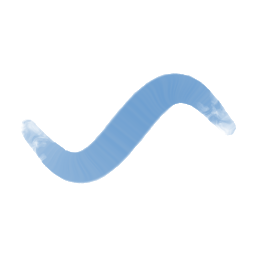
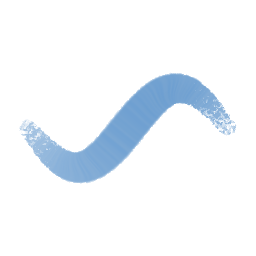
feat(painter): Pastel com o grão do dono e Chalk/Crayon a encher o dente (dono 10/11: P_dono SIM, Ch/Cr H10)
Pastel: Noise 120 px, params [0.55, 0.55, 0.3, 0.5, 0.5]. Chalk e Crayon: Height (mode 4) com softness 0,3,
tip_depth, fill 0,5 e grain_depth 1,0 sobre os papéis deles (80 e 48 px) — a rodada única de
docs/Painter/handoffs/material_2026-11-10_secos (a 0,3/0,6 de profundidade o Height não pinta). Presets
regerados só para os três; alarmes de largura e miniatura verdes.

Changed region(s): [[0.75, 0.3438, 0.9375, 0.5312], [0.0625, 0.4688, 0.2188, 0.6562], [0.2188, 0.5625, 0.2812, 0.5938]]

diff --git a/crates/ph2d-tool-painter/tests/it/familias/csp_secos.rs b/crates/ph2d-tool-painter/tests/it/familias/csp_secos.rs
@@ -9,12 +9,15 @@ use super::prelude::*;
 
 pub const WET: &[Receita] = &[];
 
-/// O papel áspero NOSSO dos secos (o «Rough textured» do CSP não foi copiado): `Noise` procedural preso à tela.
-const PAPEL_ASPERO: &str = r#"{"angle_deg": 0, "flow": false, "kind": "Noise", "lei": {"depth_jitter": 0.5, "depth_min": 0.0, "depth_pressure": true, "mode": 0}, "mapping": "Tiled", "offset": [0.0, 0.0], "params": [0.5, 0.5, 0.5, 0.5, 0.5, 0.5], "rake": false, "size": [48.0, 48.0], "stencil_angle_deg": 0, "stencil_offset": [0.0, 0.0], "stencil_size": [0.5, 0.5]}"#;
-/// O papel do Pastel (K1): `Noise` 32 px de 3 oitavas, contraste 0,4, lido pelo Height com maciez e ponta afundada.
-const PAPEL_DO_PASTEL: &str = r#"{"angle_deg": 0, "flow": false, "kind": "Noise", "lei": {"depth_jitter": 0.8, "depth_min": 0.0, "depth_pressure": true, "mode": 4, "softness": 0.3, "tip_depth": true, "fill": 0.5}, "mapping": "Tiled", "offset": [0.0, 0.0], "params": [0.4, 0.5, 0.3, 0.5, 0.5, 0.5], "rake": false, "size": [32.0, 32.0], "stencil_angle_deg": 0, "stencil_offset": [0.0, 0.0], "stencil_size": [0.5, 0.5]}"#;
-/// O papel de desenho do Chalk (mais grosso).
-const PAPEL_DE_DESENHO: &str = r#"{"angle_deg": 0, "flow": false, "kind": "Noise", "lei": {"depth_jitter": 0.3, "depth_min": 0.0, "depth_pressure": true, "mode": 0}, "mapping": "Tiled", "offset": [0.0, 0.0], "params": [0.5, 0.5, 0.5, 0.5, 0.5, 0.5], "rake": false, "size": [80.0, 80.0], "stencil_angle_deg": 0, "stencil_offset": [0.0, 0.0], "stencil_size": [0.5, 0.5]}"#;
+/// O papel áspero NOSSO do Crayon (o «Rough textured» do CSP não foi copiado): `Noise` 48 px preso à tela. Dono
+/// 10/11 (variante `Cr_H10`): enche o dente — lido pelo Height com maciez, ponta afundada e `fill` 0,5.
+const PAPEL_DO_CRAYON: &str = r#"{"angle_deg": 0, "flow": false, "kind": "Noise", "lei": {"depth_jitter": 0.5, "depth_min": 0.0, "depth_pressure": true, "mode": 4, "softness": 0.3, "tip_depth": true, "fill": 0.5}, "mapping": "Tiled", "offset": [0.0, 0.0], "params": [0.5, 0.5, 0.5, 0.5, 0.5, 0.5], "rake": false, "size": [48.0, 48.0], "stencil_angle_deg": 0, "stencil_offset": [0.0, 0.0], "stencil_size": [0.5, 0.5]}"#;
+/// O papel do Pastel — o grão do dono 10/11 (variante `P_dono`): `Noise` 120 px, contraste e brilho 0,55, detalhe 0,3,
+/// lido pelo Height com maciez, ponta afundada e `fill` 0,5.
+const PAPEL_DO_PASTEL: &str = r#"{"angle_deg": 0, "flow": false, "kind": "Noise", "lei": {"depth_jitter": 0.8, "depth_min": 0.0, "depth_pressure": true, "mode": 4, "softness": 0.3, "tip_depth": true, "fill": 0.5}, "mapping": "Tiled", "offset": [0.0, 0.0], "params": [0.55, 0.55, 0.3, 0.5, 0.5, 0.5], "rake": false, "size": [120.0, 120.0], "stencil_angle_deg": 0, "stencil_offset": [0.0, 0.0], "stencil_size": [0.5, 0.5]}"#;
+/// O papel de desenho do Chalk (mais grosso, 80 px). Dono 10/11 (variante `Ch_H10`): enche o dente — Height com
+/// maciez, ponta afundada e `fill` 0,5.
+const PAPEL_DO_GIZ: &str = r#"{"angle_deg": 0, "flow": false, "kind": "Noise", "lei": {"depth_jitter": 0.3, "depth_min": 0.0, "depth_pressure": true, "mode": 4, "softness": 0.3, "tip_depth": true, "fill": 0.5}, "mapping": "Tiled", "offset": [0.0, 0.0], "params": [0.5, 0.5, 0.5, 0.5, 0.5, 0.5], "rake": false, "size": [80.0, 80.0], "stencil_angle_deg": 0, "stencil_offset": [0.0, 0.0], "stencil_size": [0.5, 0.5]}"#;
 /// A nuvem manchada das aguadas (o «Dappled cloud» do CSP não foi copiado): `Clouds` procedural.
 const NUVEM: &str = r#"{"angle_deg": 0, "flow": false, "kind": "Clouds", "mapping": "Tiled", "offset": [0.0, 0.0], "params": [0.5, 0.5, 0.5, 0.5, 0.5, 0.5], "rake": false, "size": [160.0, 160.0], "stencil_angle_deg": 0, "stencil_offset": [0.0, 0.0], "stencil_size": [0.5, 0.5]}"#;
 
@@ -22,7 +25,8 @@ const NUVEM: &str = r#"{"angle_deg": 0, "flow": false, "kind": "Clouds", "mappin
 // espalhamento da Splash, o tubo do Wet wash (véu 4,5×), a Brush Pen sem 2.ª ponta e o Finger tip curto.
 pub const MEIOS: &[ReceitaMeio] = &[
     // Crayon (CSP: 30 px, dureza 100, intervalo 20 contínuo, espessura 80, «Rough textured» dens 90, mistura
-    // 60/100/15, HSV por dab 10/−10/−3, Size P·T(30), Flow P): a cera que apanha um pouco de cor e deixa o papel.
+    // 60/100/15, HSV por dab 10/−10/−3, Size P·T(30), Flow P): a cera que apanha um pouco de cor. Dono 10/11: enche o
+    // dente (Height + fill, `Cr_H10`).
     ReceitaMeio {
         pincel: &[
             ("hardness", "0.9"),
@@ -30,8 +34,8 @@ pub const MEIOS: &[ReceitaMeio] = &[
             ("spacing", "0.1"),
             ("continuous_spacing", "true"),
             ("dab_flatten", "0.2"),
-            ("texture", PAPEL_ASPERO),
-            ("grain_depth", "0.3"),
+            ("texture", PAPEL_DO_CRAYON),
+            ("grain_depth", "1.0"),
             ("color_jitter_hue", "0.02"),
             ("color_jitter_val", "0.02"),
             (
@@ -50,7 +54,7 @@ pub const MEIOS: &[ReceitaMeio] = &[
     },
     // Pastel — receita K1 (09/11, medida contra o Krita Chalk Soft; aprovada pelo dono): sem spray, o papel
     // decide a cobertura pelo Height com borda macia e ponta que afunda
-    // (`docs/Painter/handoffs/material_2026-11-09_pastel/README.md` FASE 3).
+    // (`docs/Painter/handoffs/material_2026-11-09_pastel/README.md` FASE 3); o grão é o do dono 10/11 (`P_dono`).
     ReceitaMeio {
         pincel: &[
             ("hardness", "0.75"),
@@ -74,7 +78,8 @@ pub const MEIOS: &[ReceitaMeio] = &[
         ..ReceitaMeio::digital("Pastel", "Pastel", "Pastel")
     },
     // Chalk (CSP: 30 px, dureza 81, intervalo 10, espessura 50, «Drawing paper C» dens 80, mistura 41/100/15, HSV
-    // 0/5/−10, Size P·T(50), Flow P·T(50)): o giz achatado e granulado.
+    // 0/5/−10, Size P·T(50), Flow P·T(50)): o giz achatado e granulado. Dono 10/11: enche o dente (Height + fill,
+    // `Ch_H10`).
     ReceitaMeio {
         pincel: &[
             ("hardness", "0.9"),
@@ -82,8 +87,8 @@ pub const MEIOS: &[ReceitaMeio] = &[
             ("spacing", "0.1"),
             ("dab_flatten", "0.2"),
             ("jitter", "0.02"),
-            ("texture", PAPEL_DE_DESENHO),
-            ("grain_depth", "0.3"),
+            ("texture", PAPEL_DO_GIZ),
+            ("grain_depth", "1.0"),
             ("color_jitter_sat", "0.02"),
             ("color_jitter_val", "0.04"),
             (
